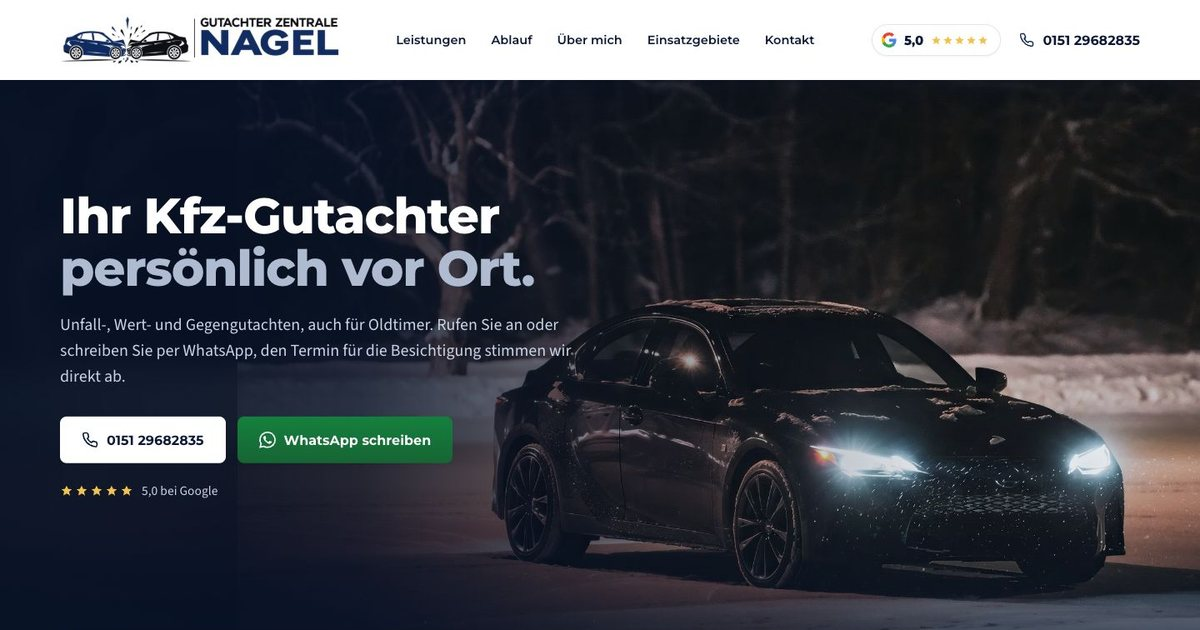
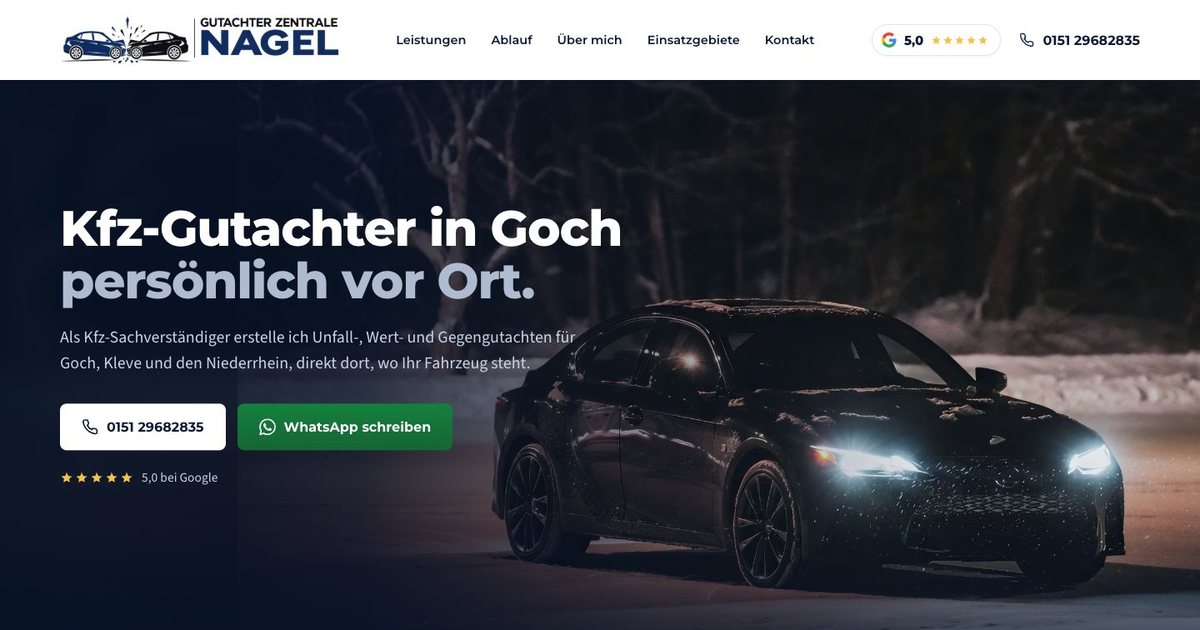
SEO-Texte und neue Band-Themen

Changed region(s): [[0.0308, 0.3016, 0.5242, 0.6032], [0.0308, 0.6333, 0.4008, 0.7841]]

diff --git a/index.html b/index.html
@@ -3,13 +3,14 @@
 <head>
 <meta charset="utf-8">
 <meta name="viewport" content="width=device-width,initial-scale=1">
-<title>Gutachter Zentrale Nagel – Entwurf</title>
+<title>Kfz-Gutachter Goch &amp; Kleve | Gutachter Zentrale Nagel</title>
+<meta name="description" content="Kfz-Sachverständiger für Goch, Kleve und den Niederrhein: Unfall-, Wert- und Oldtimergutachten. Besichtigung vor Ort. Anruf oder WhatsApp: 0151 29682835">
 <meta name="robots" content="noindex,nofollow">
 <link rel="preload" href="fonts/montserrat-latin.woff2" as="font" type="font/woff2" crossorigin>
 <meta property="og:type" content="website">
 <meta property="og:title" content="Gutachter Zentrale Nagel – Entwurf der Startseite">
 <meta property="og:description" content="Vorschau des neuen Kopfbereichs. Nur zur Abstimmung.">
-<meta property="og:image" content="https://cesurd.github.io/entwurf-a5de/og.jpg?v=2">
+<meta property="og:image" content="https://cesurd.github.io/entwurf-a5de/og.jpg?v=3">
 <meta property="og:image:width" content="1200">
 <meta property="og:image:height" content="630">
 <script>
@@ -65,7 +66,7 @@ html.kopf-hell .logo .hell{display:block}
   linear-gradient(90deg,rgba(7,18,38,.94) 0%,rgba(7,18,38,.84) 30%,rgba(7,18,38,.38) 56%,rgba(7,18,38,.06) 78%),
   linear-gradient(180deg,rgba(7,18,38,.6) 0%,rgba(7,18,38,0) 17%),
   linear-gradient(0deg,#071226 0%,rgba(7,18,38,.85) 12%,rgba(7,18,38,0) 32%)}
-.inhalt{position:absolute;left:clamp(20px,5vw,80px);top:46%;transform:translateY(-50%);width:min(660px,48%);z-index:3}
+.inhalt{position:absolute;left:clamp(20px,5vw,80px);top:46%;transform:translateY(-50%);width:min(760px,50%);z-index:3}
 h1{font-family:'Montserrat',Arial,sans-serif;font-weight:800;font-size:clamp(2.4rem,1.3rem + 2.7vw,4.1rem);line-height:1.05;letter-spacing:-.022em}
 h1 span{display:block;color:var(--silber-akzent)}
 .sub{margin-top:22px;font-size:clamp(1.06rem,.96rem + .35vw,1.25rem);line-height:1.55;color:var(--text);max-width:33em}
@@ -90,7 +91,7 @@ h1 span{display:block;color:var(--silber-akzent)}
 .medaille{position:relative;width:56px;height:56px;border-radius:50%;display:grid;place-items:center;margin-bottom:24px;background:radial-gradient(circle at 32% 26%,rgba(255,255,255,.12),rgba(255,255,255,.02) 62%)}
 .medaille .ring{position:absolute;inset:0;width:56px;height:56px;color:rgba(214,221,234,.5);transform:rotate(-90deg)}
 .medaille .icon{width:26px;height:26px;color:#E6EBF3}
-.punkt h3{font-family:'Montserrat',Arial,sans-serif;font-weight:700;font-size:19px;line-height:1.3;letter-spacing:-.01em}
+.punkt h2{font-family:'Montserrat',Arial,sans-serif;font-weight:700;font-size:19px;line-height:1.3;letter-spacing:-.01em}
 .punkt p{margin-top:10px;font-size:16px;line-height:1.55;color:var(--leise)}
 .weiter{height:150px}
 
@@ -121,7 +122,7 @@ html.still[data-s="1"] .punkt:nth-child(n+3) .medaille :is(path,circle){stroke-d
 html.still[data-s="1"] .punkt:nth-child(2) .medaille .icon :is(path,circle){stroke-dasharray:1;stroke-dashoffset:.45}
 
 
-@media (max-width:760px){
+@media (max-width:900px){
   .kopf{display:none}
   .kopf-m{display:flex;position:absolute;top:0;left:0;right:0;z-index:6;height:64px;align-items:center;justify-content:space-between;padding:0 12px 0 16px}
   .kopf-m .logo img{height:31px}
@@ -150,7 +151,7 @@ html.still[data-s="1"] .punkt:nth-child(2) .medaille .icon :is(path,circle){stro
   .medaille{width:52px;height:52px;margin-bottom:0;grid-row:span 2}
   .medaille .ring{width:52px;height:52px}
   .nr{top:24px;right:20px}
-  .punkt h3{font-size:17px;padding-right:28px}
+  .punkt h2{font-size:17px;padding-right:28px}
   .punkt p{margin-top:6px;font-size:15px}
 }
 @media (max-width:380px){
@@ -160,7 +161,7 @@ html.still[data-s="1"] .punkt:nth-child(2) .medaille .icon :is(path,circle){stro
 @media (max-width:340px){
   .kopf-m .logo img{height:23px}
 }
-@media (min-width:761px) and (max-width:1180px){
+@media (min-width:901px) and (max-width:1180px){
   .nav{display:none}
   .menue-d{display:grid}
 }
@@ -199,8 +200,8 @@ html.still[data-s="1"] .punkt:nth-child(2) .medaille .icon :is(path,circle){stro
     <div class="verlauf"></div>
   </div>
   <div class="inhalt">
-    <h1>Ihr Kfz-Gutachter <span>persönlich vor Ort.</span></h1>
-    <p class="sub">Unfall-, Wert- und Gegengutachten, auch für Oldtimer. Rufen Sie an oder schreiben Sie per WhatsApp, den Termin für die Besichtigung stimmen wir direkt ab.</p>
+    <h1>Kfz-Gutachter in&nbsp;Goch <span>persönlich vor&nbsp;Ort.</span></h1>
+    <p class="sub">Als Kfz-Sachverständiger erstelle ich Unfall-, Wert- und Gegengutachten für Goch, Kleve und den Niederrhein, direkt dort, wo Ihr Fahrzeug steht.</p>
     <div class="knoepfe">
       <a class="knopf tel"><svg><use href="#tel"/></svg>0151&nbsp;29682835</a>
       <a class="knopf wa"><svg><use href="#wa"/></svg>WhatsApp schreiben</a>
@@ -209,33 +210,33 @@ html.still[data-s="1"] .punkt:nth-child(2) .medaille .icon :is(path,circle){stro
   </div>
 </section>
 
-<section class="protokoll" aria-label="Darauf können Sie sich verlassen">
+<section class="protokoll" aria-label="Leistungen und Kosten im Überblick">
   <div class="punkt">
     <span class="nr">01</span>
     <span class="medaille"><svg class="ring" viewBox="0 0 56 56" aria-hidden="true"><circle cx="28" cy="28" r="27.25" fill="none" stroke="currentColor" stroke-width="1" pathLength="1"/></svg>
-      <svg class="icon" viewBox="0 0 24 24" fill="none" stroke="currentColor" stroke-width="1.6" stroke-linecap="round" stroke-linejoin="round" aria-hidden="true"><path pathLength="1" d="m16 16 3-8 3 8c-.87.65-1.92 1-3 1s-2.13-.35-3-1Z"/><path pathLength="1" d="m2 16 3-8 3 8c-.87.65-1.92 1-3 1s-2.13-.35-3-1Z"/><path pathLength="1" d="M7 21h10"/><path pathLength="1" d="M12 3v18"/><path pathLength="1" d="M3 7h2c2 0 5-1 7-2 2 1 5 2 7 2h2"/></svg></span>
-    <h3>An keine Versicherung gebunden</h3>
-    <p>Ich arbeite in Ihrem Auftrag, nicht im Auftrag einer Versicherung.</p>
+      <svg class="icon" viewBox="0 0 24 24" fill="none" stroke="currentColor" stroke-width="1.6" stroke-linecap="round" stroke-linejoin="round" aria-hidden="true"><path pathLength="1" d="M14.5 4h-5L7 7H4a2 2 0 0 0-2 2v9a2 2 0 0 0 2 2h16a2 2 0 0 0 2-2V9a2 2 0 0 0-2-2h-3l-2.5-3z"/><circle pathLength="1" cx="12" cy="13" r="3"/></svg></span>
+    <h2>Unfallgutachten</h2>
+    <p>Jeder Schaden wird mit Fotos und Video dokumentiert, nachvollziehbar für Versicherung und Anwalt.</p>
   </div>
   <div class="punkt">
     <span class="nr">02</span>
     <span class="medaille"><svg class="ring" viewBox="0 0 56 56" aria-hidden="true"><circle cx="28" cy="28" r="27.25" fill="none" stroke="currentColor" stroke-width="1" pathLength="1"/></svg>
-      <svg class="icon" viewBox="0 0 24 24" fill="none" stroke="currentColor" stroke-width="1.6" stroke-linecap="round" stroke-linejoin="round" aria-hidden="true"><path pathLength="1" d="M20 10c0 4.993-5.539 10.193-7.399 11.799a1 1 0 0 1-1.202 0C9.539 20.193 4 14.993 4 10a8 8 0 0 1 16 0"/><circle pathLength="1" cx="12" cy="10" r="3"/></svg></span>
-    <h3>Besichtigung vor Ort</h3>
-    <p>Zu Hause, am Arbeitsplatz oder in der Werkstatt, dort, wo Ihr Fahrzeug steht.</p>
+      <svg class="icon" viewBox="0 0 24 24" fill="none" stroke="currentColor" stroke-width="1.6" stroke-linecap="round" stroke-linejoin="round" aria-hidden="true"><path pathLength="1" d="m12 14 4-4"/><path pathLength="1" d="M3.34 19a10 10 0 1 1 17.32 0"/></svg></span>
+    <h2>Wert- und Oldtimergutachten</h2>
+    <p>Der Marktwert Ihres Fahrzeugs für Kauf, Verkauf oder Finanzierung, auch für Oldtimer.</p>
   </div>
   <div class="punkt">
     <span class="nr">03</span>
     <span class="medaille"><svg class="ring" viewBox="0 0 56 56" aria-hidden="true"><circle cx="28" cy="28" r="27.25" fill="none" stroke="currentColor" stroke-width="1" pathLength="1"/></svg>
-      <svg class="icon" viewBox="0 0 24 24" fill="none" stroke="currentColor" stroke-width="1.6" stroke-linecap="round" stroke-linejoin="round" aria-hidden="true"><path pathLength="1" d="M14.5 4h-5L7 7H4a2 2 0 0 0-2 2v9a2 2 0 0 0 2 2h16a2 2 0 0 0 2-2V9a2 2 0 0 0-2-2h-3l-2.5-3z"/><circle pathLength="1" cx="12" cy="13" r="3"/></svg></span>
-    <h3>Foto- und Videodokumentation</h3>
-    <p>Jeder Schaden wird nachvollziehbar festgehalten.</p>
+      <svg class="icon" viewBox="0 0 24 24" fill="none" stroke="currentColor" stroke-width="1.6" stroke-linecap="round" stroke-linejoin="round" aria-hidden="true"><path pathLength="1" d="m16 16 3-8 3 8c-.87.65-1.92 1-3 1s-2.13-.35-3-1Z"/><path pathLength="1" d="m2 16 3-8 3 8c-.87.65-1.92 1-3 1s-2.13-.35-3-1Z"/><path pathLength="1" d="M7 21h10"/><path pathLength="1" d="M12 3v18"/><path pathLength="1" d="M3 7h2c2 0 5-1 7-2 2 1 5 2 7 2h2"/></svg></span>
+    <h2>Unabhängiger Kfz‑Gutachter</h2>
+    <p>An keine Versicherung gebunden: Ich arbeite in Ihrem Auftrag.</p>
   </div>
   <div class="punkt">
     <span class="nr">04</span>
     <span class="medaille"><svg class="ring" viewBox="0 0 56 56" aria-hidden="true"><circle cx="28" cy="28" r="27.25" fill="none" stroke="currentColor" stroke-width="1" pathLength="1"/></svg>
       <svg class="icon" viewBox="0 0 24 24" fill="none" stroke="currentColor" stroke-width="1.6" stroke-linecap="round" stroke-linejoin="round" aria-hidden="true"><path pathLength="1" d="M4 2v20l2-1 2 1 2-1 2 1 2-1 2 1 2-1 2 1V2l-2 1-2-1-2 1-2-1-2 1-2-1-2 1Z"/><path pathLength="1" d="M8 12h5"/><path pathLength="1" d="M16 9.5a4 4 0 1 0 0 5.2"/></svg></span>
-    <h3>Kosten nach einem Unfall</h3>
+    <h2>Wer zahlt den Gutachter?</h2>
     <p>Nach einem unverschuldeten Unfall trägt in der Regel die gegnerische Versicherung die Gutachterkosten.</p>
   </div>
 </section>
